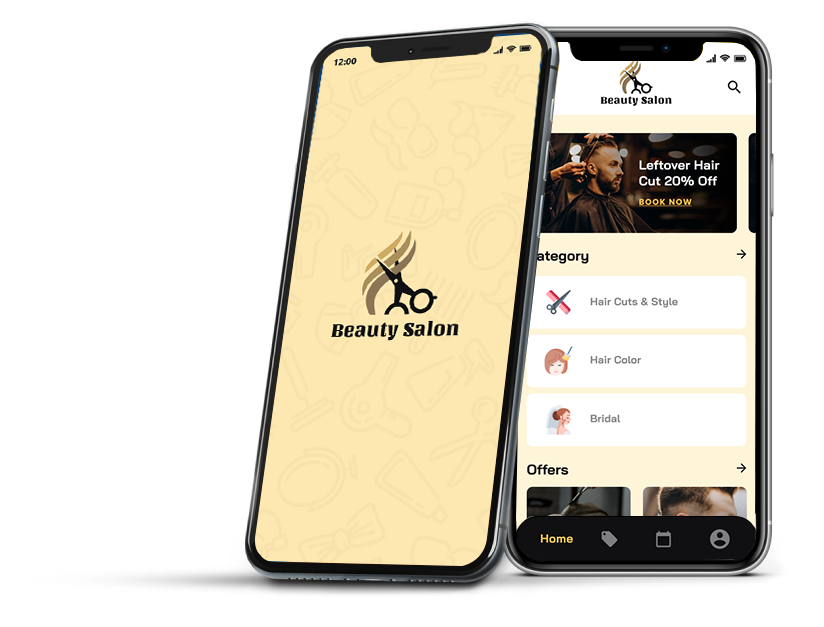
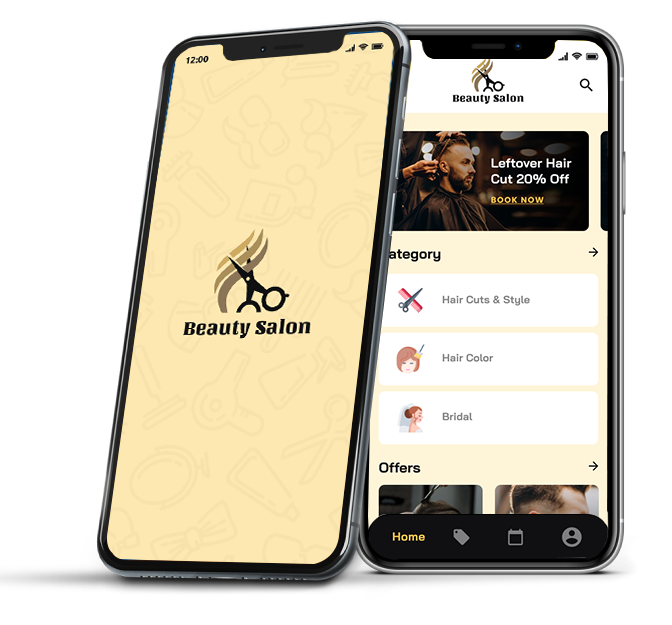
responsive ness of mobile app download section

diff --git a/src/components/DownloadAdvertiementSection/DownloadAdvertiementSection.css b/src/components/DownloadAdvertiementSection/DownloadAdvertiementSection.css
@@ -42,6 +42,6 @@
   position: absolute;
   left: 0;
   top: 0;
-  width: 110%;
+  width: 100%;
   height: 130%;
 }
